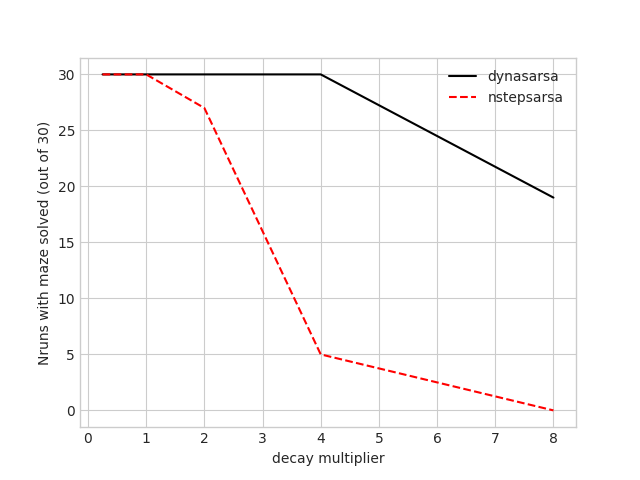
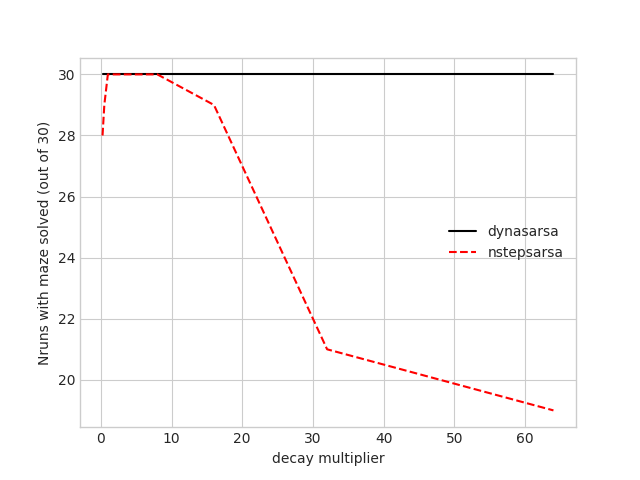
rerunning epsilon since there was bug, 2nd time. produced new plots for epsilon decay.

diff --git a/experiments/dynasarsa_vs_nstepsarsa/epsilon_decay/plot.py b/experiments/dynasarsa_vs_nstepsarsa/epsilon_decay/plot.py
@@ -38,7 +38,7 @@ def plot_solutionepisode_vs_decayrate(df):
     plt.plot(x1, y1, 'k-')
     plt.fill_between(x1, y1-error1, y1+error1)
     #plt.plot(x2, y2, color='yellow', 'k--')
-    plt.plot(x2, y2, 'y--')
+    plt.plot(x2, y2, 'r--')
     plt.fill_between(x2, y2-error2, y2+error2)
     plt.legend(['dynasarsa', 'nstepsarsa'], loc=legend_loc)
     #plt.xlim(0,75)
@@ -69,7 +69,7 @@ def plot_nrunsolved_vs_decayrate(df):
     return None
 
 metric= 'nrun_solved'
-legend_loc= 'upper right' 
+legend_loc= 'center right' 
 #best        upper right        upper left        lower left        lower right        right
 #center left        center right        lower center        upper center        center
 figurefile_header= "plots/10step_" 

diff --git a/experiments/dynasarsa_vs_nstepsarsa/epsilon_decay/simulate_rework.py b/experiments/dynasarsa_vs_nstepsarsa/epsilon_decay/simulate_rework.py
@@ -320,7 +320,8 @@ if __name__ == "__main__":
     env_model = []
 
     #defining experiment values
-    decay_multipliers = [0.25, 0.5, 1.0, 2.0, 4.0, 8.0] 
+    #decay_multipliers = [0.25, 0.5, 1.0, 2.0, 4.0, 8.0]
+    decay_multipliers = [16.0, 32.0, 64.0]  
     #defining outputfile
     outfile = '../experiments/dynasarsa_vs_nstepsarsa/epsilon_decay/data/neq10.csv'
     
